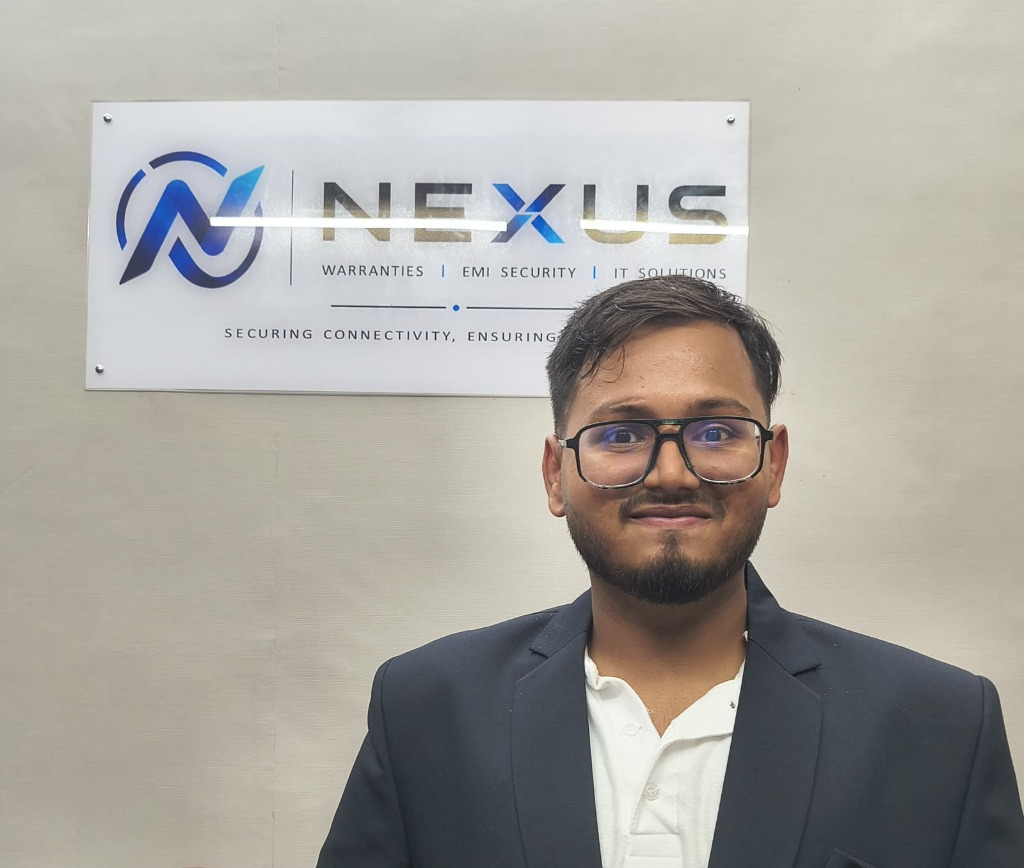
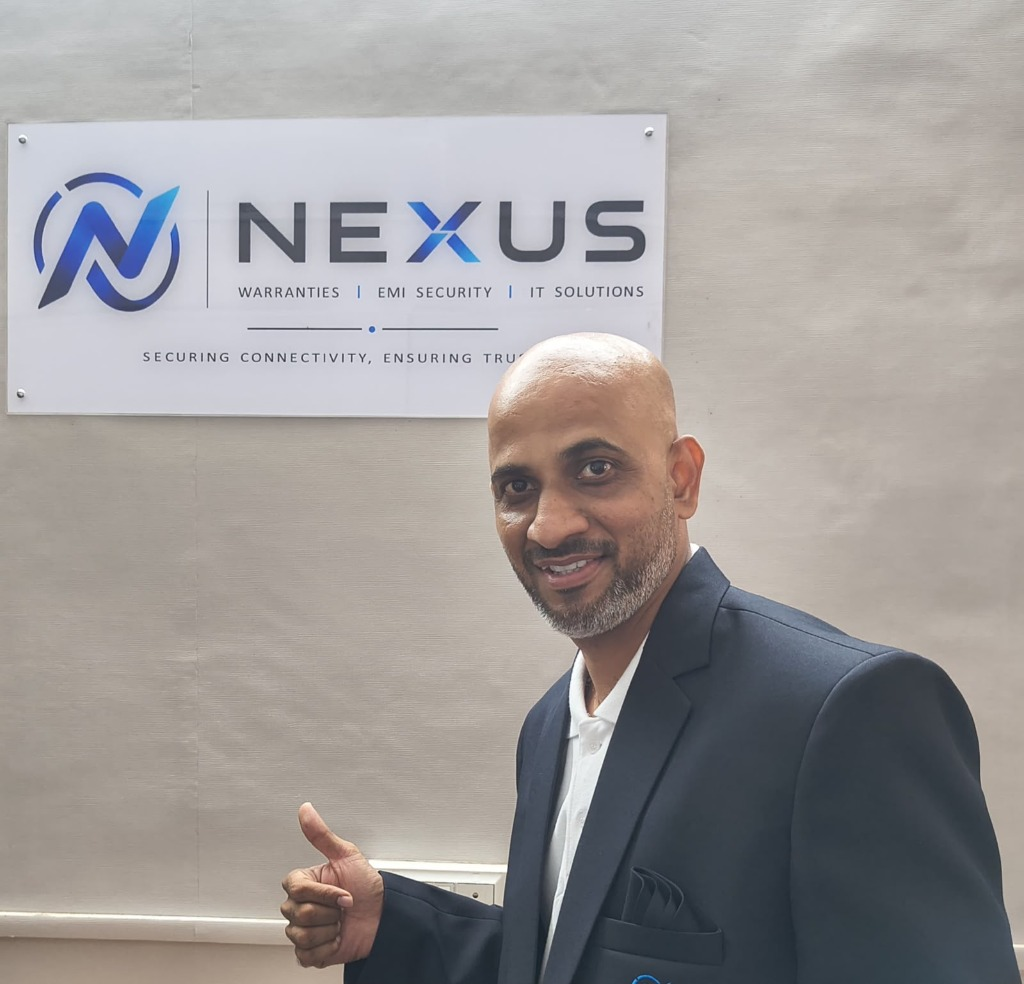
Update team photos for Ashish, Sagar, and Ketan

diff --git a/src/pages/Home.jsx b/src/pages/Home.jsx
@@ -10,9 +10,9 @@ import useCountUp from '../hooks/useCountUp';
 import useTiltEffect from '../hooks/useTiltEffect';
 
 const team = [
-  { initial: 'S', name: 'Sagar', role: 'Chief Executive Officer', bio: 'Working with Vecare for the past 10 years in IT and Business Development fields.', gradient: 'from-navy to-cyan-500' },
+  { initial: 'S', name: 'Sagar', role: 'Chief Executive Officer', bio: 'Working for the past 10 years in IT and Business Development fields.', gradient: 'from-navy to-cyan-500', photo: '/team-sagar.jpg' },
   { initial: 'K', name: 'Kunal Kurmi', role: 'Chief Operating Officer', bio: 'B.Tech graduate of Thakur College of Engineering and Technology. Experienced with Spectrum, driving OnAssist and VWarranty.', gradient: 'from-[#0f6a8c] to-[#22d3ee]', photo: '/team-kunal.jpg' },
-  { initial: 'K', name: 'Ketan', role: 'Chief Strategy Officer', bio: 'Worked with Onsitego, bringing 8 years of deep expertise in the extended warranty field.', gradient: 'from-[#17325c] to-[#0096c7]' },
+  { initial: 'K', name: 'Ketan', role: 'Chief Strategy Officer', bio: 'Worked with Onsitego, bringing 8 years of deep expertise in the extended warranty field.', gradient: 'from-[#17325c] to-[#0096c7]', photo: '/team-ketan.jpg' },
   { initial: 'A', name: 'Ashish', role: 'Chief Financial Officer / Advisor', bio: 'Our dedicated financial advisor, ensuring robust economic growth and stability.', gradient: 'from-[#0b3d66] to-[#48cae4]', photo: '/team-ashish.jpg' },
   { initial: 'J', name: 'Janak', role: 'Investor', bio: 'Strategic investor backing our vision for the future of IT and EMI security.', gradient: 'from-[#0a0f1e] to-[#22d3ee]' },
 ];
